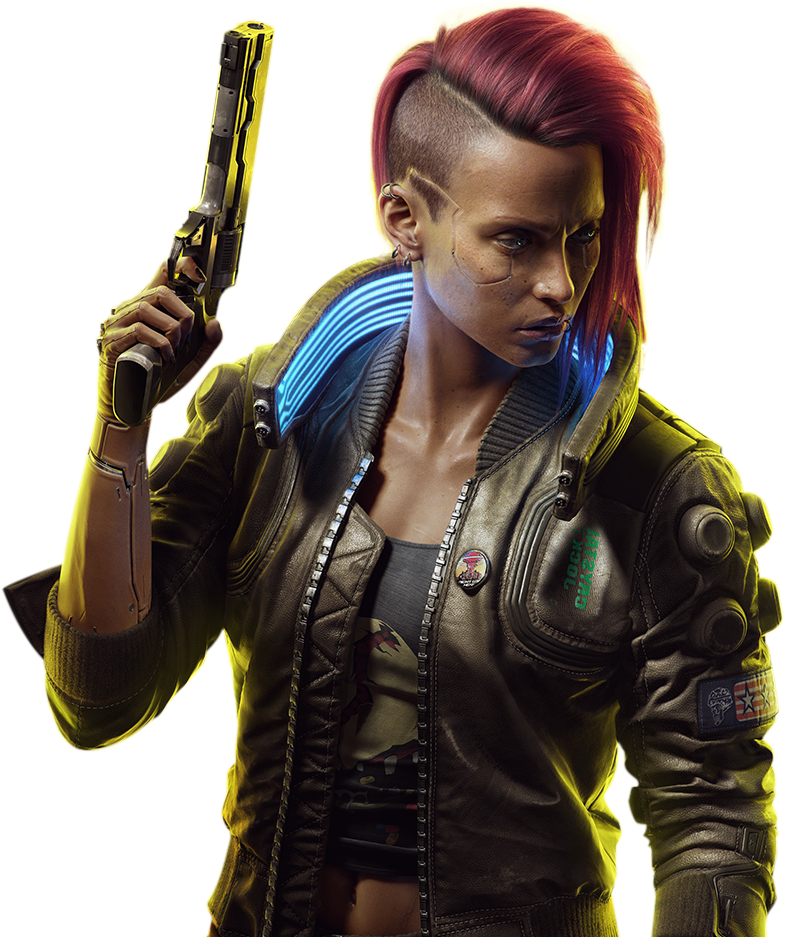
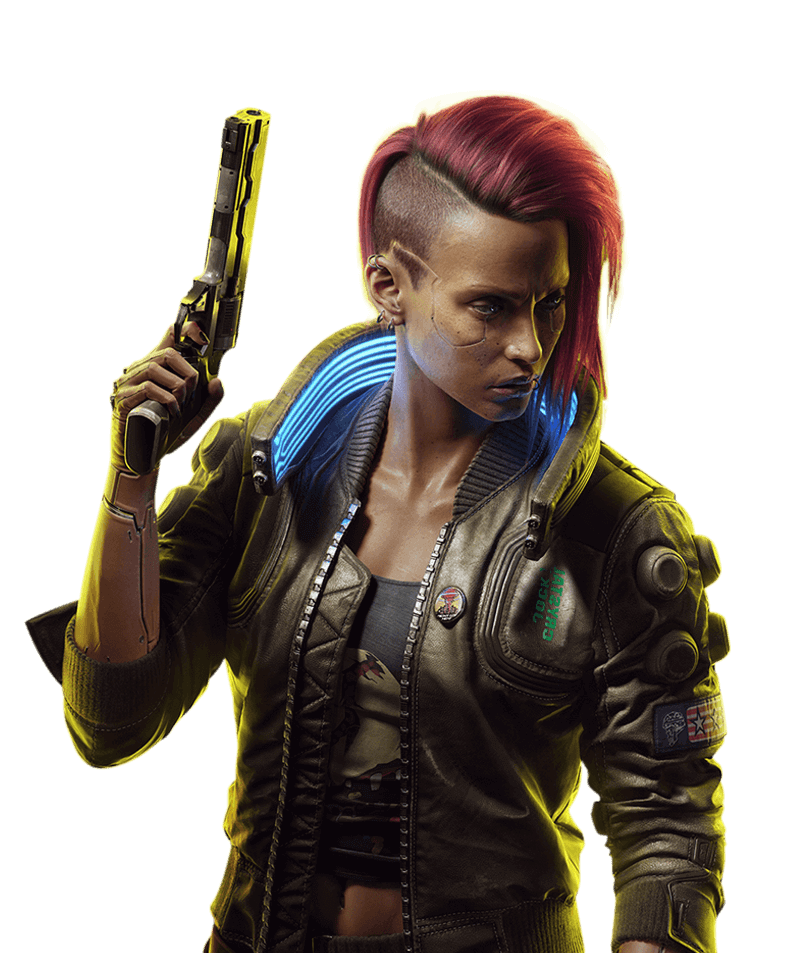
I finished the project in desktop version

diff --git a/css/styles.css b/css/styles.css
@@ -83,6 +83,7 @@ body {
 }
 
 body {
+  overflow: hidden;
   background-color: var(--yellow);
 }
 
@@ -93,6 +94,10 @@ a {
 
 li {
   list-style-type: none;
+}
+
+figure {
+  margin: 0;
 }
 
 img {
@@ -141,6 +146,7 @@ img {
   width: 30px;
   margin-inline-end: var(--space-x2);
   background-color: var(--black);
+  cursor: pointer;
 }
 
 .header__social-media div:last-child {
@@ -186,10 +192,12 @@ img {
   justify-content: space-between;
   max-width: 1440px;
   height: calc(100vh - 212px);
+  margin: 0 auto;
   padding: calc(var(--space) * 7);
 }
 
-.hero {
+.hero-details,
+.hero-multimedia {
   display: flex;
   flex-direction: column;
   justify-content: space-between;
@@ -246,8 +254,9 @@ img {
   justify-content: center;
   width: 45px;
   height: 45px;
-  border: 2px solid var(--black);
   margin-inline-end: var(--space-x2);
+  border: 2px solid var(--black);
+  cursor: pointer;
 }
 
 .platforms > div:hover {
@@ -279,15 +288,105 @@ img {
   border-block-end: 2px solid var(--black);
 }
 
+.hero-multimedia {
+  align-items: flex-end;
+}
+
 .character-imageContainer {
   position: absolute;
-  top: 60px;
-  left: 15%;
+  bottom: -50px;
+  left: 0;
+  right: 0;
+  width: 55%;
+  max-width: 900px;
+  margin: 0 auto;
+}
+
+.character-image {
+  width: 100%;
+}
+
+.change-character {
+  display: grid;
+  grid-template-columns: repeat(2, 1fr);
+  height: 120px;
+  width: 280px;
+}
+
+.change-character > div {
+  line-height: 130px;
+  text-align: center;
+}
+
+.change-character__imageContainer {
+  position: relative;
+  background-color: var(--black);
+}
+
+.change-character__imageContainer img {
+  position: absolute;
+  bottom: 0;
+  left: -4%;
 }
 
 /* ----------------------------------------------------Footer */
 
 .footer {
+  display: flex;
+  align-items: center;
+  justify-content: space-between;
   height: 50px;
+  padding: 0 var(--space-x3);
   outline: 1px solid var(--yellow-2);
+}
+
+.change-lenguage {
+  display: flex;
+  align-items: center;
+  font-size: .8rem;
+}
+
+.change-lenguage:after {
+  content: '';
+  display: inline-block;
+  margin-inline-start: calc(var(--space) / 2);
+  background-color: transparent;
+  width: 0;
+  height: 0;
+  border-left: 4px solid transparent;
+  border-right: 4px solid transparent;
+  border-bottom: 4px solid var(--gray);
+  transform: rotate(90deg);
+}
+
+.triangles {
+  display: flex;
+  align-items: center;
+}
+
+.triangles span:first-child {
+  background-color: transparent;
+  width: 0;
+  height: 0;
+  border-left: 4px solid transparent;
+  border-right: 4px solid transparent;
+  border-bottom: 4px solid var(--gray);
+}
+
+.triangles span:nth-of-type(2) {
+  background-color: transparent;
+  width: 0;
+  height: 0;
+  border-left: 4px solid transparent;
+  border-right: 4px solid transparent;
+  border-top: 4px solid var(--gray);
+}
+
+.triangles span:last-child {
+  background-color: transparent;
+  width: 0;
+  height: 0;
+  border-left: 4px solid transparent;
+  border-right: 4px solid transparent;
+  border-bottom: 4px solid var(--gray);
 }

diff --git a/index.html b/index.html
@@ -17,6 +17,9 @@
         <a href="#">Home</a>
       </li>
       <li>
+        <a href="#">Game</a>
+      </li>
+      <li>
         <a href="#">Media</a>
       </li>
       <li>
@@ -53,7 +56,7 @@
 
   <!-- Main -->
   <main class="main">
-    <section class="hero">
+    <section class="hero-details">
       <article class="video-game-information">
         <h1 class="video-game-information__title">Cyberpunk<br />2077</h1>
         <hr />
@@ -88,14 +91,32 @@
       </div>
     </section>
     <figure class="character-imageContainer">
-      <img class="character-image" src="./images/female-character.png" width="800" alt="Personaje femenino" />
+      <img class="character-image" src="./images/female-character.png" width="785" alt="Personaje femenino" />
     </figure>
+    <section class="hero-multimedia">
+      <figure class="screenshotContainer">
+        <img class="screenshot" src="./images/screenshot.png" width="350" />
+      </figure>
+      <div class="change-character">
+        <div>
+          <span class="change-character__text">Switch</span>
+        </div>
+        <figure class="change-character__imageContainer">
+          <img class="change-character__image" src="./images/male-character-thumbnail.png" width="150" alt="Miniatura del personaje" />
+        </figure>
+      </div>
+    </section>
   </main>
   <!-- /Main -->
 
   <!-- Footer -->
   <footer class="footer">
-    <a href="#"></a>
+    <a class="change-lenguage" href="#">EN</a>
+    <div class="triangles">
+      <span></span>
+      <span></span>
+      <span></span>
+    </div>
   </footer>
   <!-- /Footer -->
 </body>
